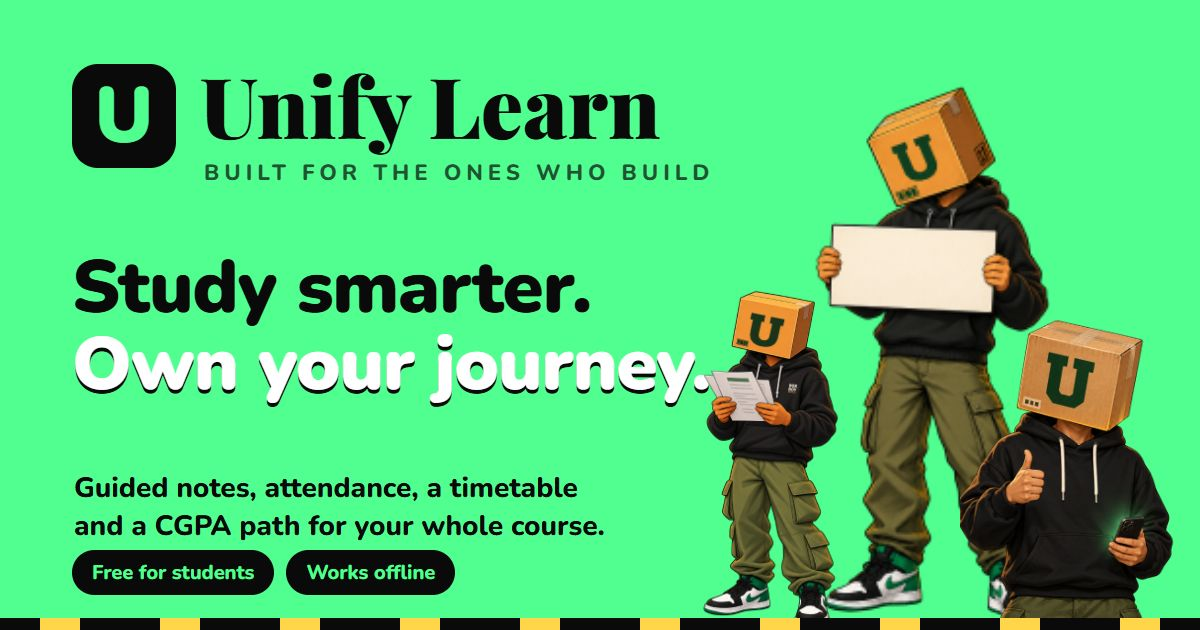
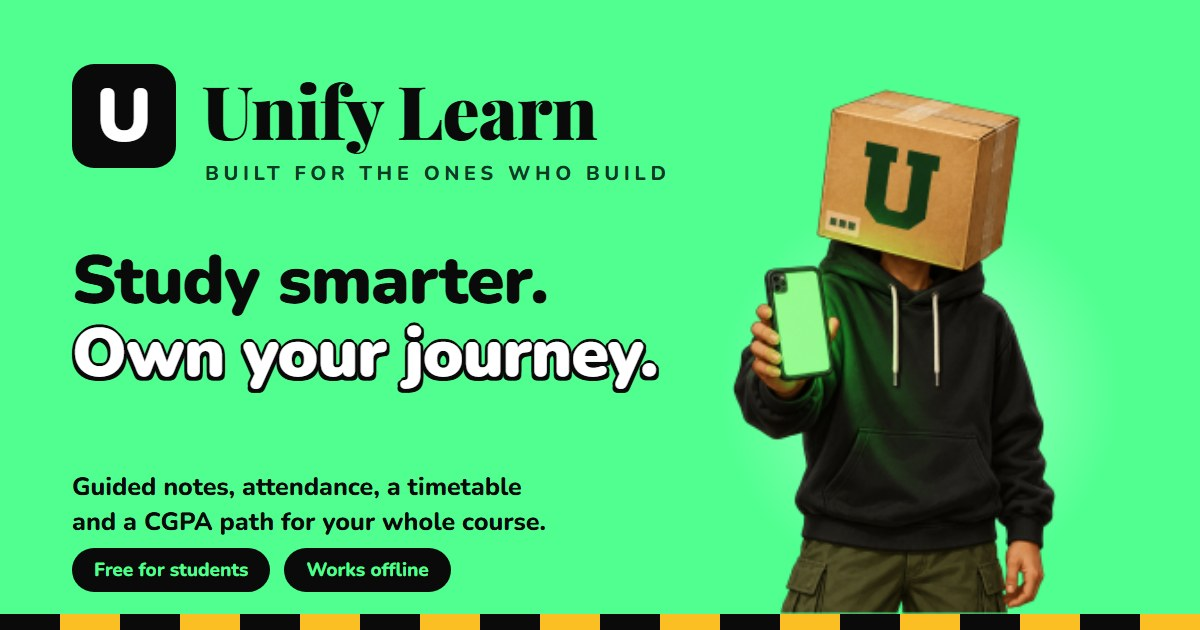
feat: v2.17.3 link preview is a horizontal card with Box Boy holding his phone

diff --git a/scripts/og/og-phone.html b/scripts/og/og-phone.html
@@ -1,0 +1,39 @@
+<!DOCTYPE html>
+<html>
+<head>
+<meta charset="UTF-8"/>
+<!-- Link preview (og-image.jpg): 1200x630, horizontal. Render with
+     render-og.ps1, then save as a JPEG under ~100 KB so WhatsApp keeps the large card. -->
+<link href="https://fonts.googleapis.com/css2?family=Nunito:wght@700;800;900&family=Playfair+Display:wght@900&display=block" rel="stylesheet"/>
+<style>
+  * { margin: 0; padding: 0; box-sizing: border-box; }
+  html, body { width: 1200px; height: 630px; overflow: hidden; }
+  body { background: #50ff90; font-family: 'Nunito', Arial, sans-serif; position: relative; color: #0a0a0a; }
+  .logo { position: absolute; top: 64px; left: 72px; width: 104px; height: 104px; border-radius: 22px; background: #0a0a0a;
+          color: #fff; font-family: 'Nunito'; font-weight: 900; font-size: 74px; display: flex; align-items: center; justify-content: center; }
+  .wordmark { position: absolute; top: 60px; left: 202px; font-family: 'Playfair Display', Georgia, serif; font-weight: 900; font-size: 74px; letter-spacing: -1px; }
+  .tagline { position: absolute; top: 160px; left: 205px; font-weight: 800; font-size: 20px; letter-spacing: 4.6px; color: #0d3b24; }
+  h1 { position: absolute; top: 244px; left: 72px; font-weight: 900; font-size: 68px; line-height: 1.08; letter-spacing: -1px; }
+  h1 .w { color: #fff; text-shadow: 0 4px 0 #0a0a0a, 3px 0 0 #0a0a0a, -3px 0 0 #0a0a0a, 0 -3px 0 #0a0a0a, 3px 4px 0 #0a0a0a, -3px 4px 0 #0a0a0a; }
+  .sub { position: absolute; top: 470px; left: 72px; font-weight: 800; font-size: 25px; line-height: 1.4; }
+  .chips { position: absolute; top: 548px; left: 72px; display: flex; gap: 14px; }
+  .chip { background: #0a0a0a; color: #50ff90; border-radius: 999px; padding: 9px 22px; font-weight: 800; font-size: 19px; }
+  .glow { position: absolute; right: 70px; bottom: 30px; width: 420px; height: 420px; border-radius: 50%;
+          background: radial-gradient(circle, rgba(255,255,255,.55) 0%, rgba(255,255,255,0) 68%); }
+  .mascot { position: absolute; right: 96px; bottom: 16px; height: 548px; }
+  .stripe { position: absolute; left: 0; right: 0; bottom: 0; height: 16px;
+            background: repeating-linear-gradient(90deg, #0a0a0a 0 60px, #fbbf24 60px 120px); }
+</style>
+</head>
+<body>
+  <div class="logo">U</div>
+  <div class="wordmark">Unify Learn</div>
+  <div class="tagline">BUILT FOR THE ONES WHO BUILD</div>
+  <h1>Study smarter.<br/><span class="w">Own your journey.</span></h1>
+  <div class="sub">Guided notes, attendance, a timetable<br/>and a CGPA path for your whole course.</div>
+  <div class="chips"><span class="chip">Free for students</span><span class="chip">Works offline</span></div>
+  <div class="glow"></div>
+  <img class="mascot" src="mascot-phone.png" alt=""/>
+  <div class="stripe"></div>
+</body>
+</html>

diff --git a/apps/web/index.html b/apps/web/index.html
@@ -70,16 +70,16 @@
     <meta property="og:title" content="Unify Learn — Own your journey" />
     <meta property="og:description" content="Guided notes, a timetable, QR attendance, a CGPA path and study streaks for your whole course. Free for students, works offline." />
     <meta property="og:url" content="https://unify-virid.vercel.app/" />
-    <meta property="og:image" content="https://unify-virid.vercel.app/og-image.jpg?v=4" />
+    <meta property="og:image" content="https://unify-virid.vercel.app/og-image.jpg?v=5" />
     <meta property="og:image:width" content="1200" />
     <meta property="og:image:height" content="630" />
     <meta property="og:image:type" content="image/jpeg" />
-    <meta property="og:image:alt" content="Unify Learn: study smarter and own your journey, with the Unify box-head crew." />
+    <meta property="og:image:alt" content="Unify Learn: study smarter and own your journey, with Box Boy holding his phone." />
     <meta property="og:locale" content="en_NG" />
     <meta name="twitter:card" content="summary_large_image" />
     <meta name="twitter:title" content="Unify Learn — Own your journey" />
     <meta name="twitter:description" content="Guided notes, a timetable, QR attendance, a CGPA path and study streaks for your whole course. Free for students, works offline." />
-    <meta name="twitter:image" content="https://unify-virid.vercel.app/og-image.jpg?v=4" />
+    <meta name="twitter:image" content="https://unify-virid.vercel.app/og-image.jpg?v=5" />
     <meta name="twitter:image:alt" content="Unify Learn: study smarter and own your journey." />
     <link rel="icon" type="image/png" sizes="32x32" href="/icons/v4/favicon-32.png" />
     <link rel="icon" type="image/png" sizes="16x16" href="/icons/v4/favicon-16.png" />

diff --git a/api/share/[token].js b/api/share/[token].js
@@ -51,7 +51,7 @@ module.exports = async (req, res) => {
   // always unfurl fresh.
   res.setHeader('Cache-Control', 'public, s-maxage=300, stale-while-revalidate=3600');
   if (!token) {
-    res.status(400).send(page({ title: 'Unify Learn', desc: 'Shared note', image: APP_URL + '/og-image.jpg?v=4', body: '', appLink: APP_URL + '/auth' }));
+    res.status(400).send(page({ title: 'Unify Learn', desc: 'Shared note', image: APP_URL + '/og-image.jpg?v=5', body: '', appLink: APP_URL + '/auth' }));
     return;
   }
   let data = null;
@@ -68,7 +68,7 @@ module.exports = async (req, res) => {
     res.status(expired ? 410 : 404).send(page({
       title: expired ? 'This Unify link expired — Unify Learn' : 'Link not found — Unify Learn',
       desc: expired ? 'Shared notes live for a while. Join free and the library stays open.' : 'This share link is invalid or was revoked.',
-      image: APP_URL + '/og-image.jpg?v=4',
+      image: APP_URL + '/og-image.jpg?v=5',
       body: '<div class="card"><div class="eyebrow">Unify Learn</div><h1>' + (expired ? 'This link expired' : 'Link not found') + '</h1><div class="sub">Shared notes live for a while — that is what makes them special.</div></div>',
       appLink: APP_URL + '/auth',
     }));
@@ -93,7 +93,7 @@ module.exports = async (req, res) => {
   res.status(200).send(page({
     title,
     desc,
-    image: APP_URL + '/og-image.jpg?v=4',
+    image: APP_URL + '/og-image.jpg?v=5',
     body,
     appLink: APP_URL + '/s/' + encodeURIComponent(token),
   }));

diff --git a/apps/web/api/share/[token].js b/apps/web/api/share/[token].js
@@ -51,7 +51,7 @@ module.exports = async (req, res) => {
   // always unfurl fresh.
   res.setHeader('Cache-Control', 'public, s-maxage=300, stale-while-revalidate=3600');
   if (!token) {
-    res.status(400).send(page({ title: 'Unify Learn', desc: 'Shared note', image: APP_URL + '/og-image.jpg?v=4', body: '', appLink: APP_URL + '/auth' }));
+    res.status(400).send(page({ title: 'Unify Learn', desc: 'Shared note', image: APP_URL + '/og-image.jpg?v=5', body: '', appLink: APP_URL + '/auth' }));
     return;
   }
   let data = null;
@@ -68,7 +68,7 @@ module.exports = async (req, res) => {
     res.status(expired ? 410 : 404).send(page({
       title: expired ? 'This Unify link expired — Unify Learn' : 'Link not found — Unify Learn',
       desc: expired ? 'Shared notes live for a while. Join free and the library stays open.' : 'This share link is invalid or was revoked.',
-      image: APP_URL + '/og-image.jpg?v=4',
+      image: APP_URL + '/og-image.jpg?v=5',
       body: '<div class="card"><div class="eyebrow">Unify Learn</div><h1>' + (expired ? 'This link expired' : 'Link not found') + '</h1><div class="sub">Shared notes live for a while — that is what makes them special.</div></div>',
       appLink: APP_URL + '/auth',
     }));
@@ -93,7 +93,7 @@ module.exports = async (req, res) => {
   res.status(200).send(page({
     title,
     desc,
-    image: APP_URL + '/og-image.jpg?v=4',
+    image: APP_URL + '/og-image.jpg?v=5',
     body,
     appLink: APP_URL + '/s/' + encodeURIComponent(token),
   }));

diff --git a/apps/web/src/lib/version.ts b/apps/web/src/lib/version.ts
@@ -3,6 +3,6 @@
 // MINOR — feature batch (new screens, flows, capabilities).
 // PATCH — bugfix/hotfix push (no new surface).
 // Bump PATCH on every fix push, MINOR when a push adds features.
-export const APP_VERSION = '2.17.2';
+export const APP_VERSION = '2.17.3';
 export const APP_NAME = 'Unify Learn';
 

diff --git a/CHANGELOG.md b/CHANGELOG.md
@@ -5,6 +5,11 @@ All notable changes to Unify Learn.
 The format is based on [Keep a Changelog](https://keepachangelog.com/en/1.0.0/),
 and this project adheres to [Semantic Versioning](https://semver.org/spec/v2.0.0.html).
 
+## [2.17.3] - 2026-11-10
+
+### Changed
+- **New link preview**: shared Unify links show a horizontal 1200x630 card with a single Box Boy holding his phone out (was three Box Boys). Still a JPEG under 100 KB so WhatsApp keeps the large picture-first card. Image URL bumped to `?v=5` so apps fetch the new picture. Source: `scripts/og/og-phone.html`
+
 ## [2.17.2] - 2026-11-10
 
 ### Changed
